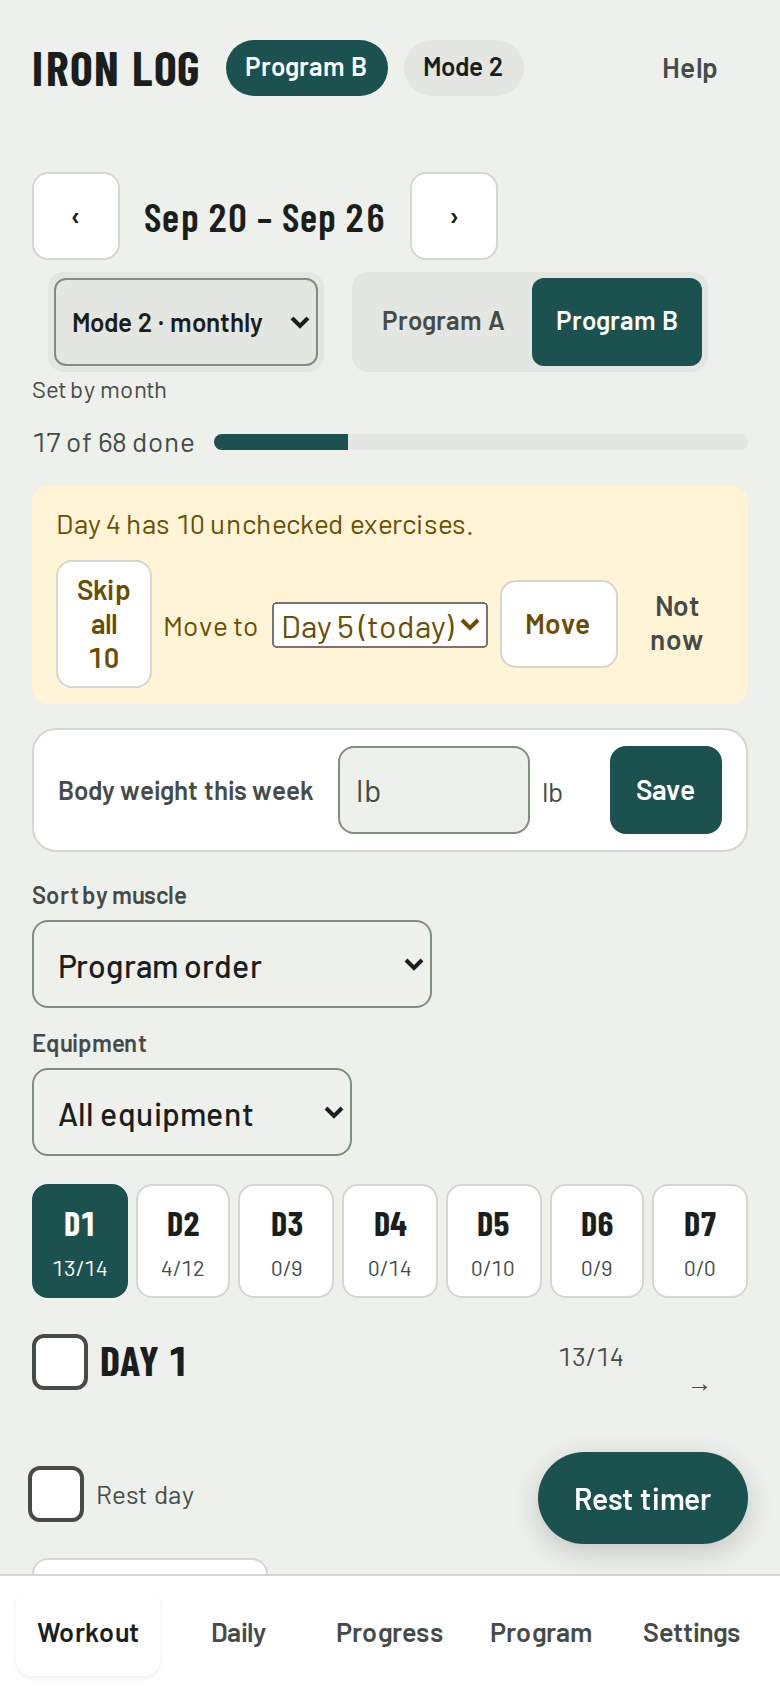
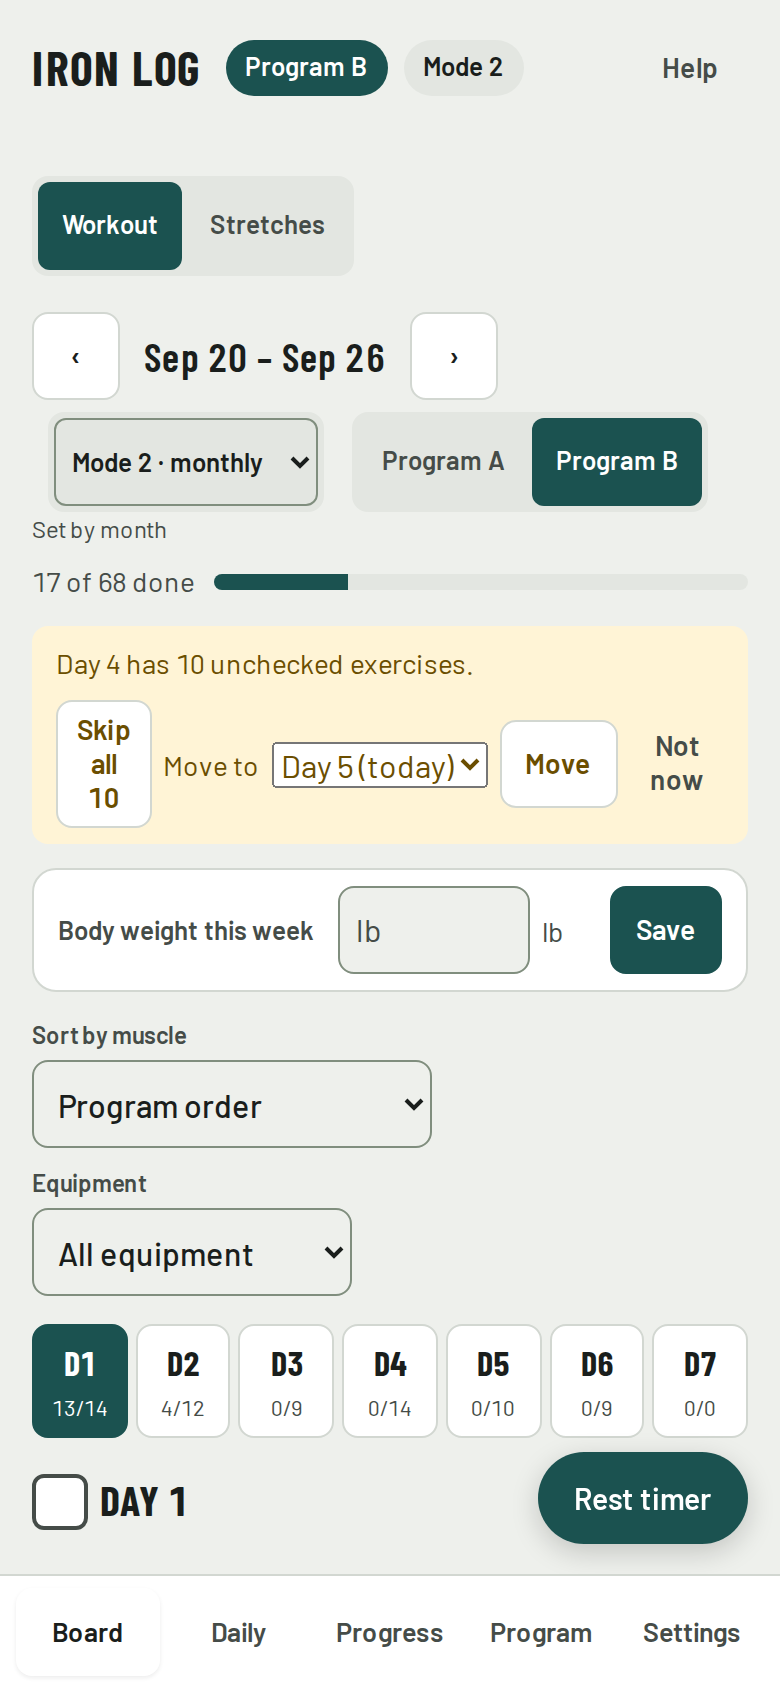
Rename Workout back to Board; put Stretches on it (#64)
* Rename Workout back to Board and put Stretches on it behind a Workout | Stretches switch

Daily now holds Supplements and Medical. Stretches don't depend on the
program or mode.

* Update README screenshots

---------

diff --git a/src/components/sheets/ImportSheet.jsx b/src/components/sheets/ImportSheet.jsx
@@ -18,7 +18,7 @@ function ExcelImport({ draft, s, busy }) {
         {s.body > 0 && <li>{s.body} body weight entr{s.body === 1 ? 'y' : 'ies'}</li>}
         {rms > 0 && <li>{plural(rms, 'one-rep max', 'one-rep maxes')} (1RM) and program names, where you haven't set them here</li>}
         {d.excel.newExercises.length > 0 && <li>New exercises added to your list: {d.excel.newExercises.join(', ')}</li>}
-        {s.entries > 0 && <li>Check-offs on the Workout tab: each session checks off its exercise in the week it was logged</li>}
+        {s.entries > 0 && <li>Check-offs on the Board: each session checks off its exercise in the week it was logged</li>}
       </ul>
       <p className="notice"><b>Not in an Excel file:</b> cards you skipped or moved, edited programs, saved program versions and phase defaults. Those stay as they are here. If you still have the <b>iron-log-data .json</b> file, import that instead to get everything.</p>
       {hasSettings && (
@@ -46,7 +46,7 @@ export default function ImportSheet() {
   const cur = dataStats({ logs });
   const sel = importSel(draft); const none = !Object.values(sel).some(Boolean);
   const rows = [
-    ['board', 'Workout', [plural(s.weeks, 'week', 'weeks') + ' of check-offs', s.body > 0 && `${s.body} body weight entr${s.body === 1 ? 'y' : 'ies'}`, s.experiments > 0 && plural(s.experiments, 'exercise to try', 'exercises to try')].filter(Boolean).join(', ')],
+    ['board', 'Board', [plural(s.weeks, 'week', 'weeks') + ' of check-offs', s.body > 0 && `${s.body} body weight entr${s.body === 1 ? 'y' : 'ies'}`, s.experiments > 0 && plural(s.experiments, 'exercise to try', 'exercises to try')].filter(Boolean).join(', ')],
     ['progress', 'Progress', `${plural(s.entries, 'logged session', 'logged sessions')} across ${plural(s.exercises, 'exercise', 'exercises')}`],
     ['muscles', 'Muscles', 'muscle tags'],
     ['program', 'Program', (s.programs.length ? `edited Program ${s.programs.join(' and ')}` : 'original programs') + (s.saved ? `, ${plural(s.saved, 'saved version', 'saved versions')}` : '') + ', custom exercises'],

diff --git a/src/components/sheets/HelpSheet.jsx b/src/components/sheets/HelpSheet.jsx
@@ -42,11 +42,11 @@ export default function HelpSheet() {
       <section aria-labelledby="help-how">
         <h3 id="help-how">How Iron Log works</h3>
         <ol className="helpsteps">
-          <li><b>Workout.</b> Each day of your plan is a column. Tick an exercise when you have done it. On a phone, use the day buttons (D1 to D7) to change days.</li>
+          <li><b>Board.</b> Switch between <b>Workout</b> and <b>Stretches</b> at the top. In Workout, each day of your plan is a column. Tick an exercise when you have done it. On a phone, use the day buttons (D1 to D7) to change days.</li>
           <li><b>Log.</b> Press Log on an exercise to record the weight and reps of each set. Same as last copies your previous session.</li>
           <li><b>Targets.</b> The weight shown on each exercise is a suggestion. It goes up when you complete all your sets two sessions in a row.</li>
           <li><b>Move or skip.</b> If equipment is busy, use Move to put an exercise on another day, or Skip to leave it out this week.</li>
-          <li><b>Daily</b> holds what you do every day. <b>Stretches</b> is a stretch routine laid out like the Workout week: tick each stretch, add one to try from Experiments. <b>Supplements</b> is your Morning, Noon and Night list plus a water log. <b>Medical</b> is coming. Edit the lists in Program.</li>
+          <li>On the Board, <b>Stretches</b> is a stretch routine laid out like the Workout week: tick each stretch, add one to try from Experiments. It works the same in every mode and program. <b>Daily</b> holds <b>Supplements</b> (your Morning, Noon and Night list plus a water log) and <b>Medical</b>, which is coming. Edit the lists in Program.</li>
           <li><b>Progress</b> shows your trends, <b>Muscles</b>, one switch away on the Progress tab, shows which muscles your plan trains, <b>Program</b> lets you change the plan, and <b>Settings</b> holds your 1RMs, backups and display options.</li>
         </ol>
       </section>

diff --git a/src/lib/export.js b/src/lib/export.js
@@ -191,9 +191,9 @@ export function normalizeData(d) {
   Object.entries(d.weeks || {}).forEach(([k, w]) => { if (WEEK_RE.test(k) && w && typeof w === 'object') out.weeks[k] = normWeek(w); });
   return out;
 }
-// Import choices follow the app's tabs. Workout (key 'board'): check-offs, body weight, exercises to try. Progress: logged sessions.
+// Import choices follow the app's tabs. Board: check-offs, body weight, exercises to try. Progress: logged sessions.
 // Muscles: muscle tags. Program: edited programs, saved versions, custom exercises. Settings: everything else in the config.
-export const IMPORT_SECTIONS = [['board', 'Workout'], ['progress', 'Progress'], ['muscles', 'Muscles'], ['program', 'Program'], ['stretches', 'Stretches'], ['supplements', 'Supplements'], ['settings', 'Settings']];
+export const IMPORT_SECTIONS = [['board', 'Board'], ['progress', 'Progress'], ['muscles', 'Muscles'], ['program', 'Program'], ['stretches', 'Stretches'], ['supplements', 'Supplements'], ['settings', 'Settings']];
 export const importSel = draft => Object.fromEntries(IMPORT_SECTIONS.map(([k]) => [k, !draft.sel || draft.sel[k] !== false]));
 export const cfgSection = k => (k === 'muscleMap' ? 'muscles' : ['ex', 'progNames', 'phDef', 'exPh'].includes(k) ? 'program' : 'settings');
 // A stored `wk` that is just the week of the entry's date carries no information, so it doesn't make two entries different.

diff --git a/src/components/progress/Trends.jsx b/src/components/progress/Trends.jsx
@@ -158,7 +158,7 @@ function BodyGoal() {
     if (g.pace != null) lines.push(`Recent pace: ${signed(g.pace, 1)} lb a week.`);
     if (!g.reached && g.need != null) lines.push(`To hit it by ${fmtShort(parseDate(g.by))}: ${signed(g.need, 1)} lb a week.`);
     if (!g.reached && g.by && g.weeksLeft != null && g.weeksLeft <= 0) lines.push(`The date (${fmtShort(parseDate(g.by))}) has passed.`);
-  } else lines.push('Log your weight on the Workout tab to start tracking it.');
+  } else lines.push('Log your weight on the Board to start tracking it.');
   return (
     <div className="bwgoal">
       <h3>Weight goal: {fmtLb(goal.w)} lb{goal.by ? ` by ${fmtShort(parseDate(goal.by))}` : ''}</h3>
@@ -179,7 +179,7 @@ function BodyGoal() {
 function BodyChart() {
   const body = useAppStore(s => s.body); const deleteBodyWeight = useAppStore(s => s.deleteBodyWeight);
   const L = bwSorted(body);
-  if (!L.length) return <section className="panel tchart"><h2>Body weight</h2><p className="note">Log your weight once a week from the top of the Workout tab. It shows here as a trend.</p><BodyGoal /></section>;
+  if (!L.length) return <section className="panel tchart"><h2>Body weight</h2><p className="note">Log your weight once a week from the top of the Board. It shows here as a trend.</p><BodyGoal /></section>;
   const rec = [...L].reverse().slice(0, 6);
   return (
     <section className="panel tchart">

diff --git a/e2e/a11y.spec.js b/e2e/a11y.spec.js
@@ -5,7 +5,7 @@ const scan = page => new AxeBuilder({ page }).withTags(['wcag2a', 'wcag2aa', 'wc
 
 // Each view is reached by clicking these in order.
 for (const [name, clicks] of [
-  ['workout', []], ['stretches', ['#tab-daily']], ['supplements', ['#tab-daily', '#daily-supplements']], ['medical', ['#tab-daily', '#daily-medical']],
+  ['workout', []], ['stretches', ['#board-stretches']], ['supplements', ['#tab-daily', '#daily-supplements']], ['medical', ['#tab-daily', '#daily-medical']],
   ['progress', ['#tab-progress']], ['muscles', ['#tab-progress', '#prog-muscles']], ['program editor', ['#tab-program']],
 ]) {
   test(`${name} has no accessibility violations`, async ({ page }) => {
@@ -23,9 +23,10 @@ test('stretch library has no accessibility violations', async ({ page }) => {
 });
 
 test('ticking a stretch and logging water both stick', async ({ page }) => {
-  await page.click('#tab-daily');
+  await page.click('#board-stretches');
   await page.locator('#sday-4').check();
   await expect(page.locator('#sday-4')).toBeChecked();
+  await page.click('#tab-daily');
   await page.click('#daily-supplements');
   await page.click('#water-16\\.9');
   await expect(page.getByRole('status').filter({ hasText: '16.9' }).first()).toBeVisible();

diff --git a/src/App.jsx b/src/App.jsx
@@ -3,7 +3,7 @@ import { useAppStore } from './store/useAppStore.js';
 import { progName } from './lib/logic.js';
 import useTooltips from './hooks/useTooltips.js';
 import useFocusKeeper from './hooks/useFocusKeeper.js';
-import Board from './components/board/Board.jsx';
+import BoardTab from './components/board/BoardTab.jsx';
 import Daily from './components/daily/Daily.jsx';
 import Progress from './components/progress/Progress.jsx';
 import Editor from './components/program/Editor.jsx';
@@ -23,7 +23,7 @@ import ImportSheet from './components/sheets/ImportSheet.jsx';
 import HelpSheet from './components/sheets/HelpSheet.jsx';
 import UpdateBanner from './components/UpdateBanner.jsx';
 
-const TABS = [['board', 'Workout', Board], ['daily', 'Daily', Daily], ['progress', 'Progress', Progress], ['program', 'Program', Editor], ['settings', 'Settings', Settings]];
+const TABS = [['board', 'Board', BoardTab], ['daily', 'Daily', Daily], ['progress', 'Progress', Progress], ['program', 'Program', Editor], ['settings', 'Settings', Settings]];
 
 function Modal() {
   const modal = useAppStore(s => s.modal);

diff --git a/src/components/board/BoardTab.jsx b/src/components/board/BoardTab.jsx
@@ -1,0 +1,21 @@
+import { useAppStore } from '../../store/useAppStore.js';
+import Board from './Board.jsx';
+import Stretches from '../stretches/Stretches.jsx';
+
+// The Board tab: the workout week, or the stretch routine for the same week. Stretches don't depend on the
+// program or mode, so they look the same whichever is selected.
+export default function BoardTab() {
+  const view = useAppStore(s => s.boardView);
+  const setBoardView = useAppStore(s => s.setBoardView);
+  return (
+    <>
+      <div className="edtop">
+        <div className="seg" role="group" aria-label="Board section">
+          <button type="button" id="board-workout" className={view === 'workout' ? 'on' : ''} aria-pressed={view === 'workout'} onClick={() => setBoardView('workout')}>Workout</button>
+          <button type="button" id="board-stretches" className={view === 'stretches' ? 'on' : ''} aria-pressed={view === 'stretches'} onClick={() => setBoardView('stretches')}>Stretches</button>
+        </div>
+      </div>
+      {view === 'stretches' ? <Stretches /> : <Board />}
+    </>
+  );
+}

diff --git a/src/components/supplements/Supplements.jsx b/src/components/supplements/Supplements.jsx
@@ -65,7 +65,7 @@ function WaterGoal({ goal, mode }) {
   const s = useAppStore.getState();
   const [editing, setEditing] = useState(false); const [v, setV] = useState('');
   const text = goal.source === 'weight' ? `Goal: ${fmtOz(goal.oz)} oz, half your ${fmtOz(goal.lb)} lb body weight`
-    : goal.source === 'default' ? `Goal: ${fmtOz(goal.oz)} oz (log your body weight on the Workout tab to set it from your weight)` : `Goal: ${fmtOz(goal.oz)} oz, set by you`;
+    : goal.source === 'default' ? `Goal: ${fmtOz(goal.oz)} oz (log your body weight on the Board to set it from your weight)` : `Goal: ${fmtOz(goal.oz)} oz, set by you`;
   if (!editing) return <div className="inline"><span className="note">{text}</span><button type="button" className="btn sm ghost" id="water-goal-edit" onClick={() => { setV(fmtOz(goal.oz)); setEditing(true); }}>Change goal</button></div>;
   return (
     <form className="inline" noValidate style={{ flexWrap: 'wrap' }} onSubmit={e => { e.preventDefault(); if (s.setWaterGoal(v)) setEditing(false); }}>

diff --git a/src/components/settings/Settings.jsx b/src/components/settings/Settings.jsx
@@ -202,7 +202,7 @@ const ERASE = [
   ['logs', 'Logged sessions', 'every weight, set and rep, including ones logged by check-offs'],
   ['weeks', 'Weekly check-offs', 'checked, skipped and moved cards, and phase changes, for every week'],
   ['body', 'Body weight', ''],
-  ['programs', 'Edited programs, saved versions and the Experiment list', 'the Workout tab goes back to the original programs'],
+  ['programs', 'Edited programs, saved versions and the Experiment list', 'the Board goes back to the original programs'],
   ['settings', 'Settings and 1RMs', 'program mode, rest time, phase percentages, 1RMs, phase defaults, custom exercises and muscle tags'],
 ];
 function ErasePanel() {

diff --git a/src/components/daily/Daily.jsx b/src/components/daily/Daily.jsx
@@ -1,10 +1,9 @@
 import { useAppStore } from '../../store/useAppStore.js';
-import Stretches from '../stretches/Stretches.jsx';
 import Supplements from '../supplements/Supplements.jsx';
 import Medical from './Medical.jsx';
 
 // The things you check off or log every day, under one tab. Add a section by adding a row here.
-const DAILY = [['stretches', 'Stretches', Stretches], ['supplements', 'Supplements', Supplements], ['medical', 'Medical', Medical]];
+const DAILY = [['supplements', 'Supplements', Supplements], ['medical', 'Medical', Medical]];
 
 export default function Daily() {
   const view = useAppStore(s => s.dailyView);

diff --git a/src/store/wellnessSlice.js b/src/store/wellnessSlice.js
@@ -14,7 +14,9 @@ export const wellnessSlice = (set, get, flag) => ({
   strWeek: normStretchWeek(null), // the viewed week's check-offs
   supp: normSupplements(null), // {waterGoal, water: {date: [oz]}}
 
-  dailyView: 'stretches', // which section of the Daily tab is open
+  boardView: 'workout', // Board tab: 'workout' or 'stretches'
+  setBoardView: boardView => set({ boardView }),
+  dailyView: 'supplements', // which section of the Daily tab is open
   setDailyView: dailyView => set({ dailyView }),
 
   saveStretches() { get().saveDoc('stretches/main', { items: get().stretches, experiments: get().stretchExps }); },

diff --git a/README.md b/README.md
@@ -47,7 +47,7 @@ It's a React app built with Vite. You can install it on your phone or computer l
 ## Features
 
 - **Weekly board.** One column per training day (Sunday to Saturday week). You can check off exercises one at a time or a whole day at once. In a superset each exercise has its own checkbox and counts on its own; an either/or counts once, whichever option you do. When equipment is taken, drag a card to another day (or use "Move to" on a phone). If the move puts an exercise on the same day as, or the day next to, another session of that exercise, a heads-up says so, offers to move it back, and suggests the nearest day where it wouldn't clash. The make-up day (normally Day 5) is for anything skipped earlier in the week. When yesterday still has unchecked exercises, a notice offers to skip them all or move them all to a later day. **Skip** takes an exercise out of this week's counts without deleting it, and checking it off later undoes the skip. Checking off an exercise you haven't logged also logs its planned numbers (the target weight and sets × reps on the card), marked "from check-off", so it shows in Progress; logging your real numbers replaces it. Unchecking an exercise removes its log entry for that week, whether it came from the check-off or from you, and a notice at the top of the board (it scrolls into view) names what was unchecked and how many logged entries it removed, with an **Undo** that ticks it again and puts the entries back; skipping a card keeps what you logged. Done and skipped exercises drop to the bottom of their day, so what's left is always on top.
-- **Stretches.** A daily stretch routine laid out like the workout week: one column per day, grouped cards you tick off, a days-complete count, and its own Experiments list. The routine lives in Program → Stretch library.
+- **Stretches.** On the Board tab, next to Workout, a daily stretch routine laid out like the workout week (same in every mode and program): one column per day, grouped cards you tick off, a days-complete count, and its own Experiments list. The routine lives in Program → Stretch library.
 - **Supplements.** A water log: tap a cup or bottle size (8 oz to a half gallon) or type an amount, against a daily goal, with the last 7 days.
 - **Experiments.** Keep exercises you want to try in a list under the board, and add one to any day of the week you're viewing. It's a normal card for that week only; your program doesn't change.
 - **Add exercise and details.** Each day has a **+ Add exercise** button; it opens the same add sheet as the Program tab, so you pick Primary or Accessory, the section (Regular, Supersets, Plyometric or Home), single, superset or either/or, and it joins the program for every week. **+ Only this week** adds a one-week card instead. **Details** on a card sets an exercise's optional video link, its equipment (barbell, short barbell, EZ bar, dumbbell, cable, machine, bodyweight and so on; also changeable from the Log sheet, which also edits the video link) and a default phase for every card with that exercise. Setting it replaces any slot default saved for that exercise; a phase picked for one week, or a slot default saved afterwards, still wins over it.
